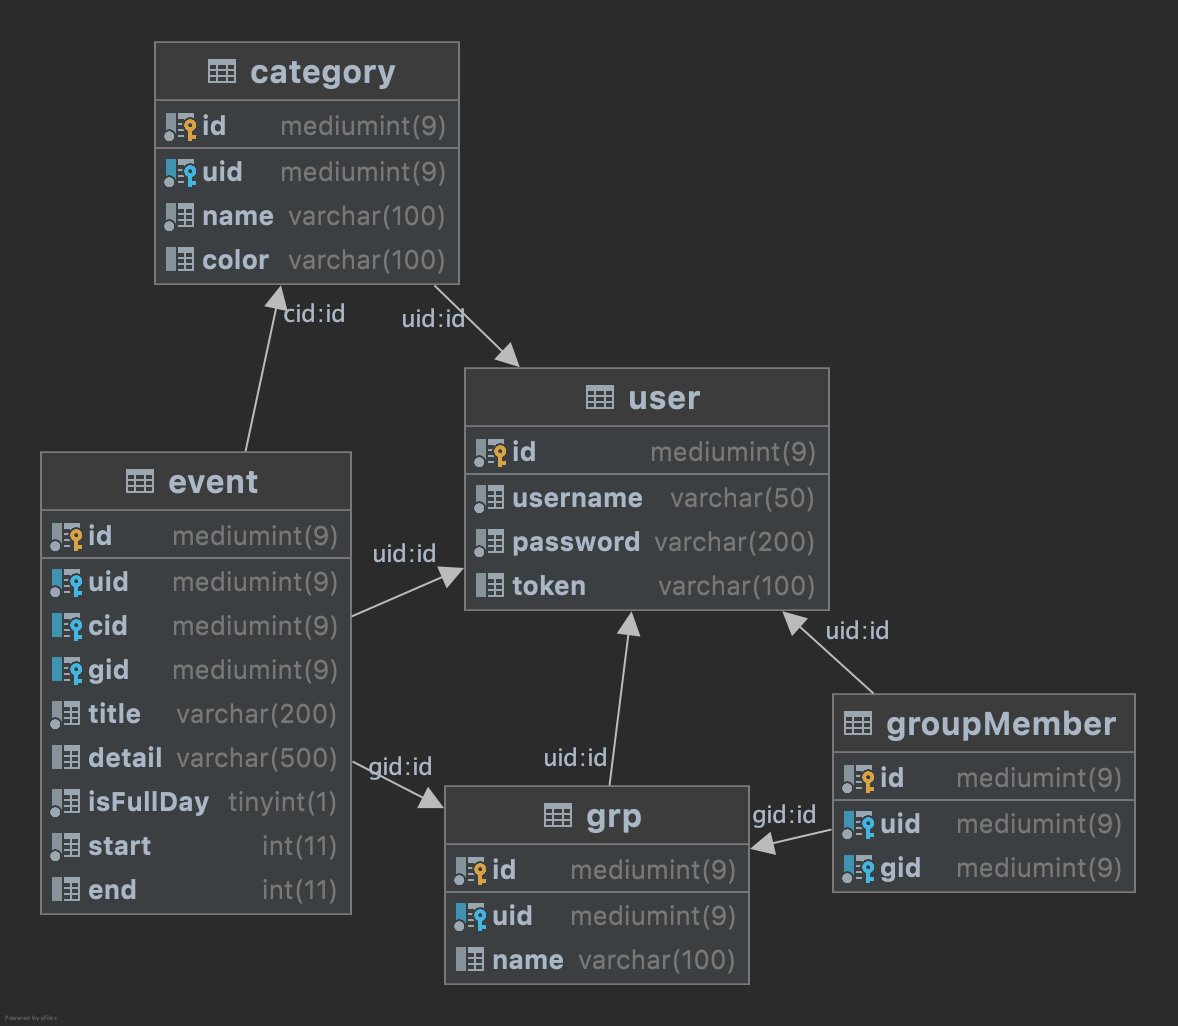
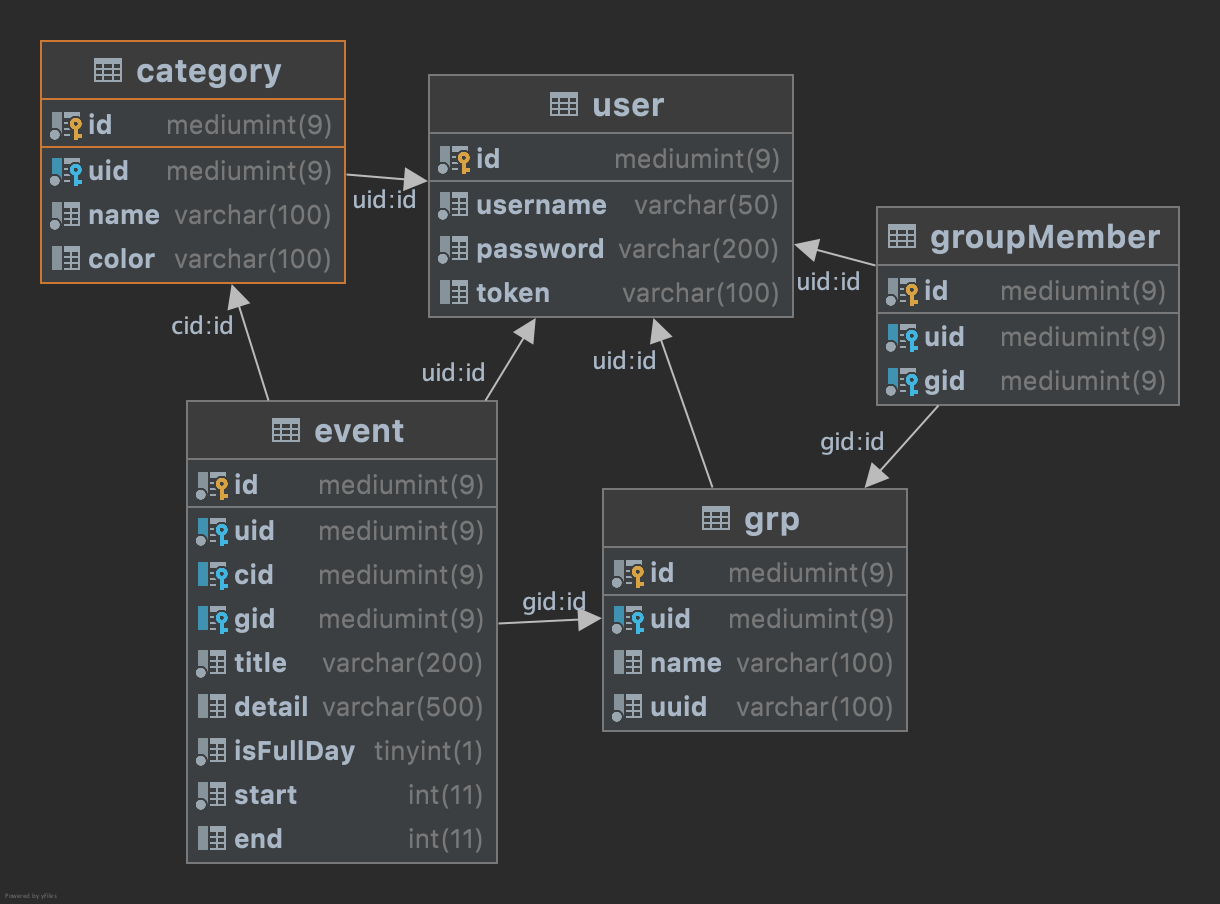
group apis

Changed region(s): [[0.0306, 0.031, 0.9779, 0.9602], [0.0306, 0.031, 0.0611, 0.0619]]

diff --git a/api/model/Group.php b/api/model/Group.php
@@ -1,0 +1,120 @@
+<?php
+class Group{
+    public $id;
+    public $uid;
+    public $uuid;
+    public $name;
+    public $creator;
+
+    private function __construct($id, $uid, $uuid, $name, $creator)
+    {
+        $this->id = $id;
+        $this->uid = $uid;
+        $this->uuid = $uuid;
+        $this->name = $name;
+        $this->creator = $creator;
+    }
+
+    public static function getGroupById($id){
+        global $conn;
+        $stmt = $conn->prepare("select grp.id, grp.uid, grp.uuid, grp.name, u.username as creator from grp left join user u on grp.uid = u.id where grp.id = ?");
+        if(!$stmt){
+            printf("Query Prep Failed: %s\n", $conn->error);
+            exit;
+        }
+        $stmt->bind_param('i', $id);
+        $stmt->execute();
+        $stmt->bind_result($id, $uid, $uuid, $name, $creator);
+        if($stmt->fetch()){
+            $u = new static($id, $uid, $uuid, $name, $creator);
+            $stmt->close();
+            if($u->id==null) return null;
+            return $u;
+        }
+        $stmt->close();
+        return null;
+    }
+
+    public static function getGroupByUUID($uuid){
+        global $conn;
+        $stmt = $conn->prepare("select grp.id, grp.uid, grp.uuid, grp.name, u.username as creator from grp left join user u on grp.uid = u.id where grp.uuid = ?");
+        if(!$stmt){
+            printf("Query Prep Failed: %s\n", $conn->error);
+            exit;
+        }
+        $stmt->bind_param('i', $uuid);
+        $stmt->execute();
+        $stmt->bind_result($id, $uid, $uuid, $name, $creator);
+        if($stmt->fetch()){
+            $u = new static($id, $uid, $uuid, $name, $creator);
+            $stmt->close();
+            if($u->id==null) return null;
+            return $u;
+        }
+        $stmt->close();
+        return null;
+    }
+
+    public static function addGroup($uid, $name){
+        global $conn;
+
+        $uuid = null;
+        while(true){
+            $uuid = bin2hex(random_bytes(16));
+            $stmt = $conn->prepare("select count(*) from grp where uuid=?");
+            if (!$stmt) {
+                printf("Query Prep Failed: %s\n", $conn->error);
+                exit;
+            }
+            $stmt->bind_param("s", $uuid);
+            $stmt->execute();
+            $stmt->bind_result($count);
+            $stmt->fetch();
+            $stmt->close();
+            if($count==0){
+                break;
+            }
+        }
+
+        $stmt = $conn->prepare("insert into grp (uid, name, uuid) values (?,?,?)");
+        if (!$stmt) {
+            printf("Query Prep Failed: %s\n", $conn->error);
+            exit;
+        }
+        $stmt->bind_param("iss", $uid, $name, $uuid);
+        if($stmt->execute()){
+            $id = $conn->insert_id;
+            $stmt->close();
+            static::joinGroup($uuid, $uid);
+            return ["id"=>$id, "uuid"=>$uuid];
+        } else {
+            $stmt->close();
+            return null;
+        }
+    }
+
+    public static function joinGroup($uuid, $uid){
+        global $conn;
+        $g = static::getGroupByUUID($uuid);
+        $gid = null;
+        if(!$g){
+            return false;
+        } else {
+            $gid = $g->id;
+        }
+        $stmt = $conn->prepare("insert into groupMember (uid, gid) values (?,?)");
+        $stmt->bind_param("ii", $uid, $gid);
+        if($stmt->execute()){
+            $stmt->close();
+            return $g;
+        } else {
+            $stmt->close();
+            return null;
+        }
+    }
+
+    public function toDict(){
+        return ["id"=>$this->id, "uid"=>$this->uid, "uuid"=>$this->uuid, "name"=>$this->name, "creator"=>$this->creator];
+    }
+}
+?>

diff --git a/api/api/group/joinGroup.php b/api/api/group/joinGroup.php
@@ -1,0 +1,15 @@
+<?php
+require '../../util/reply.php';
+require '../../model/Group.php';
+require '../user/require-login.php';
+
+if(isset($_POST["uuid"])){
+    $g = Group::joinGroup($_POST["uuid"], $_POST["uid"]);
+    if($g){
+        reply_json(1, $g->toDict());
+        exit;
+    }
+}
+reply_json(-1);
+
+?>

diff --git a/api/api/group/addGroup.php b/api/api/group/addGroup.php
@@ -1,0 +1,14 @@
+<?php
+require '../../util/reply.php';
+require '../../model/Group.php';
+require '../user/require-login.php';
+
+if(isset($_POST["name"])){
+    $g = Group::addGroup($_POST["uid"], $_POST["name"]);
+    if($g){
+        reply_json(1, $g);
+        exit;
+    }
+}
+reply_json(-1);
+?>

diff --git a/api/api/event/editEvent.php b/api/api/event/editEvent.php
@@ -23,7 +23,7 @@ if(Event::editEvent(
     $inputs["start"],
     $inputs["isFullDay"] == 1 ? null : $inputs["end"]
 )){
-    return reply_json(1);
+    reply_json(1);
 } else {
     reply_json(-1, [], "error");
 }
